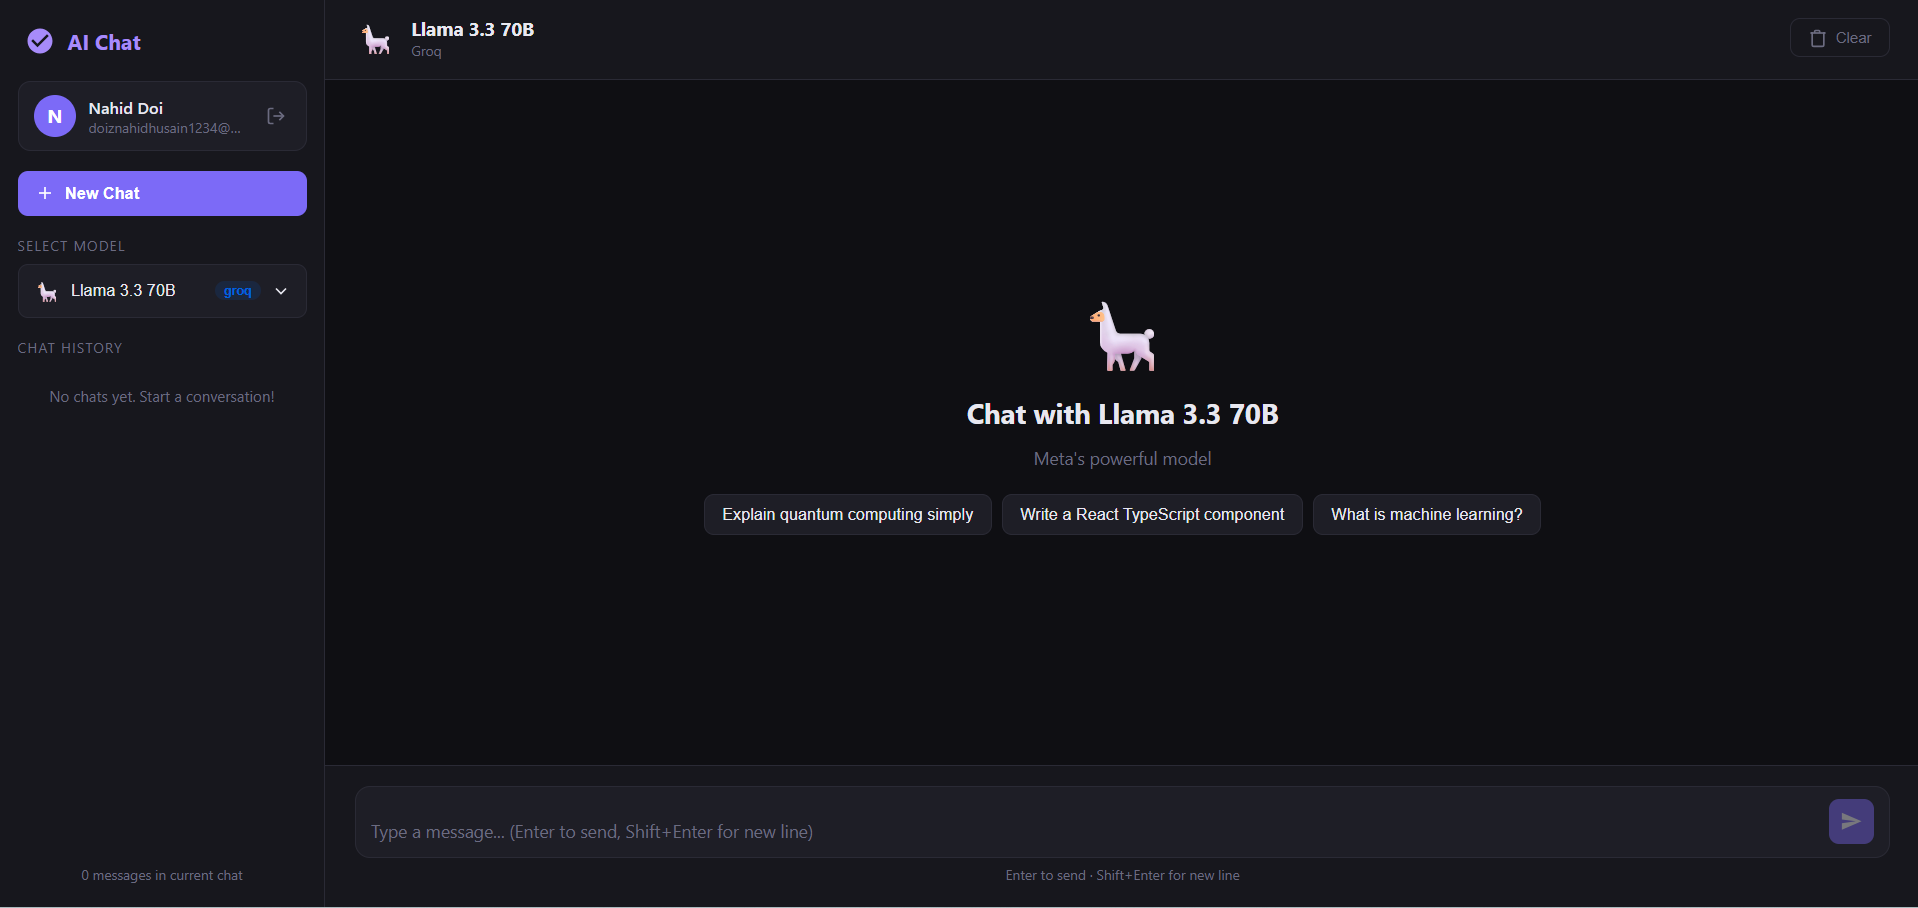
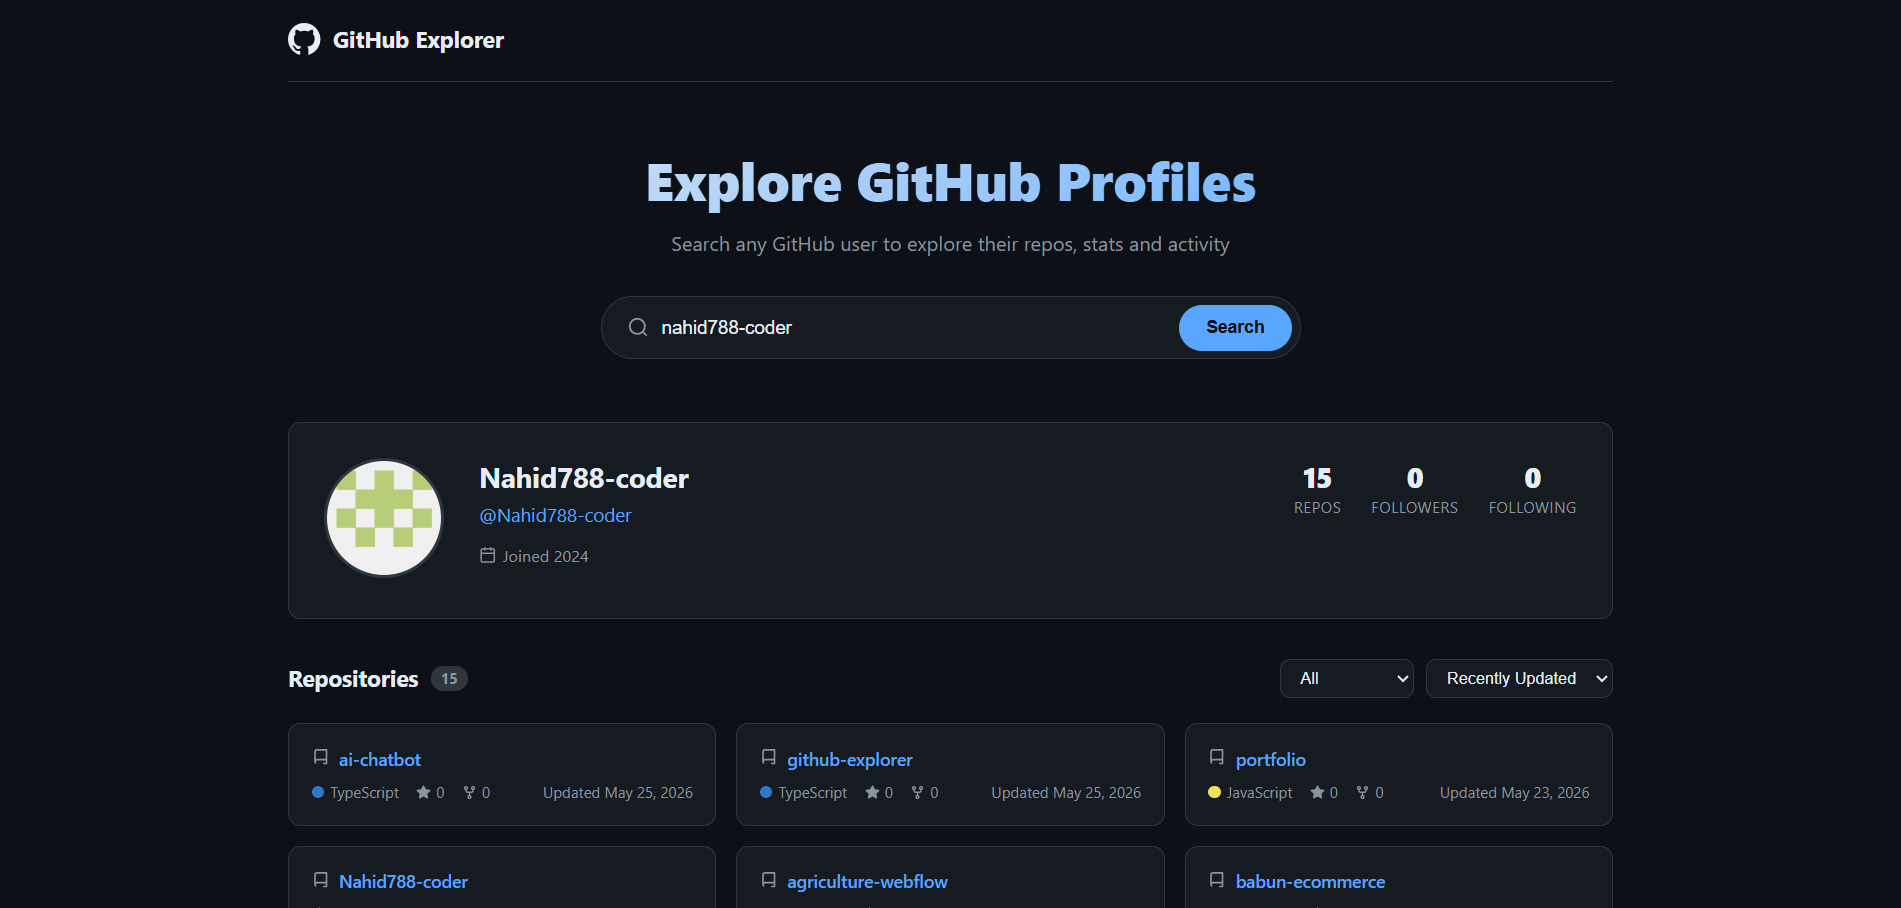
Update AI ChatBot project: new Aurora Chat screenshot and description
Also fix swapped screenshot file names for GitHub Explorer.

Claude-Session: https://claude.ai/code/session_013LK2wZcdrgKdodBQxEhTq2

diff --git a/src/Protfolio.jsx b/src/Protfolio.jsx
@@ -14,16 +14,16 @@ function Protfolio() {
     const BASE = 'https://nahid788-coder.github.io/live-designs';
     const projects = [
         {
-            image: '/image/github-explorer.png',
-            title: 'AI ChatBot',
+            image: '/image/aurora-chat.webp',
+            title: 'Aurora AI ChatBot',
             category: 'TypeScript',
             link: 'https://ai-chatbot-one-bice-57.vercel.app',
-            description: 'Multi-model AI chat app with 10+ free AI models (Groq, Gemini), Google login, email/phone auth, OTP verification, and full chat history saved to Supabase database.',
-            technologies: ['React', 'TypeScript', 'Supabase', 'Groq API', 'Gemini API'],
-            features: ['10+ AI Models', 'Google Login + OTP Auth', 'Chat History (Supabase)', 'Real-time Streaming'],
+            description: 'Multi-model AI chat app with 25+ live models (Groq, Gemini, OpenRouter), real-time streaming replies, Markdown and code blocks. API keys stay secure behind Vercel serverless functions; Supabase handles Google/OTP login and saved chat history.',
+            technologies: ['React', 'TypeScript', 'Supabase', 'Vercel Functions', 'Groq / Gemini API'],
+            features: ['25+ Live AI Models', 'Real-time Streaming', 'Secure Server-side API Keys', 'Searchable Chat History'],
         },
         {
-            image: '/image/ai-chatbot.png',
+            image: '/image/github-explorer.png',
             title: 'GitHub Explorer',
             category: 'TypeScript',
             link: 'https://github-explorer-ashen-two.vercel.app',

diff --git a/api/chat.js b/api/chat.js
@@ -23,7 +23,7 @@ Skills:
 - Tools: Git, GitHub, Vite, Vercel, Figma
 
 Projects (all have live demos):
-1. AI ChatBot — Multi-model chat app (Groq, Gemini APIs), Google login, Supabase auth & history, OTP verification. Live: https://ai-chatbot-one-bice-57.vercel.app
+1. Aurora AI ChatBot — Multi-model chat app with 25+ live models (Groq, Gemini, OpenRouter), real-time streaming, API keys secured in Vercel serverless functions, Supabase Google/OTP login and saved chat history, dark/light theme. Live: https://ai-chatbot-one-bice-57.vercel.app · Code: https://github.com/Nahid788-coder/ai-chatbot
 2. GitHub Explorer — Search any GitHub user, view repos, stats, languages. Built with React + TypeScript. Live: https://github-explorer-ashen-two.vercel.app
 3. Harvest Co. — E-Commerce platform with Subscription Box Builder, React + Node + MongoDB. Live: https://nahid788-coder.github.io/live-designs/organick/
 4. Lyric Studio — Awwwards-tier creative agency with magnetic cursor, page transitions, CMS. Live: https://nahid788-coder.github.io/live-designs/andia/
